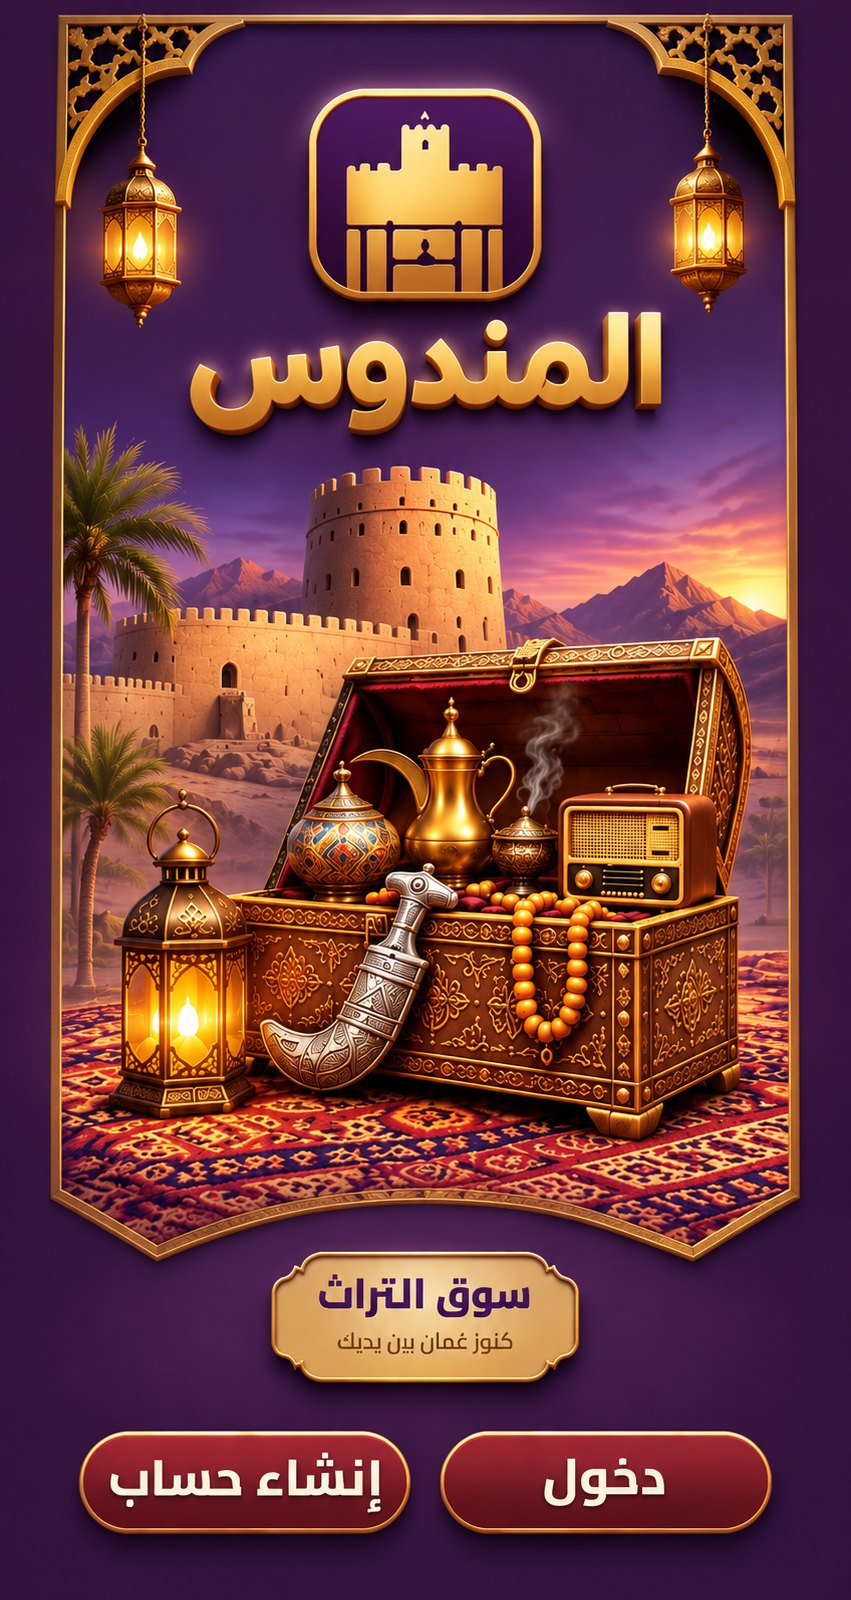
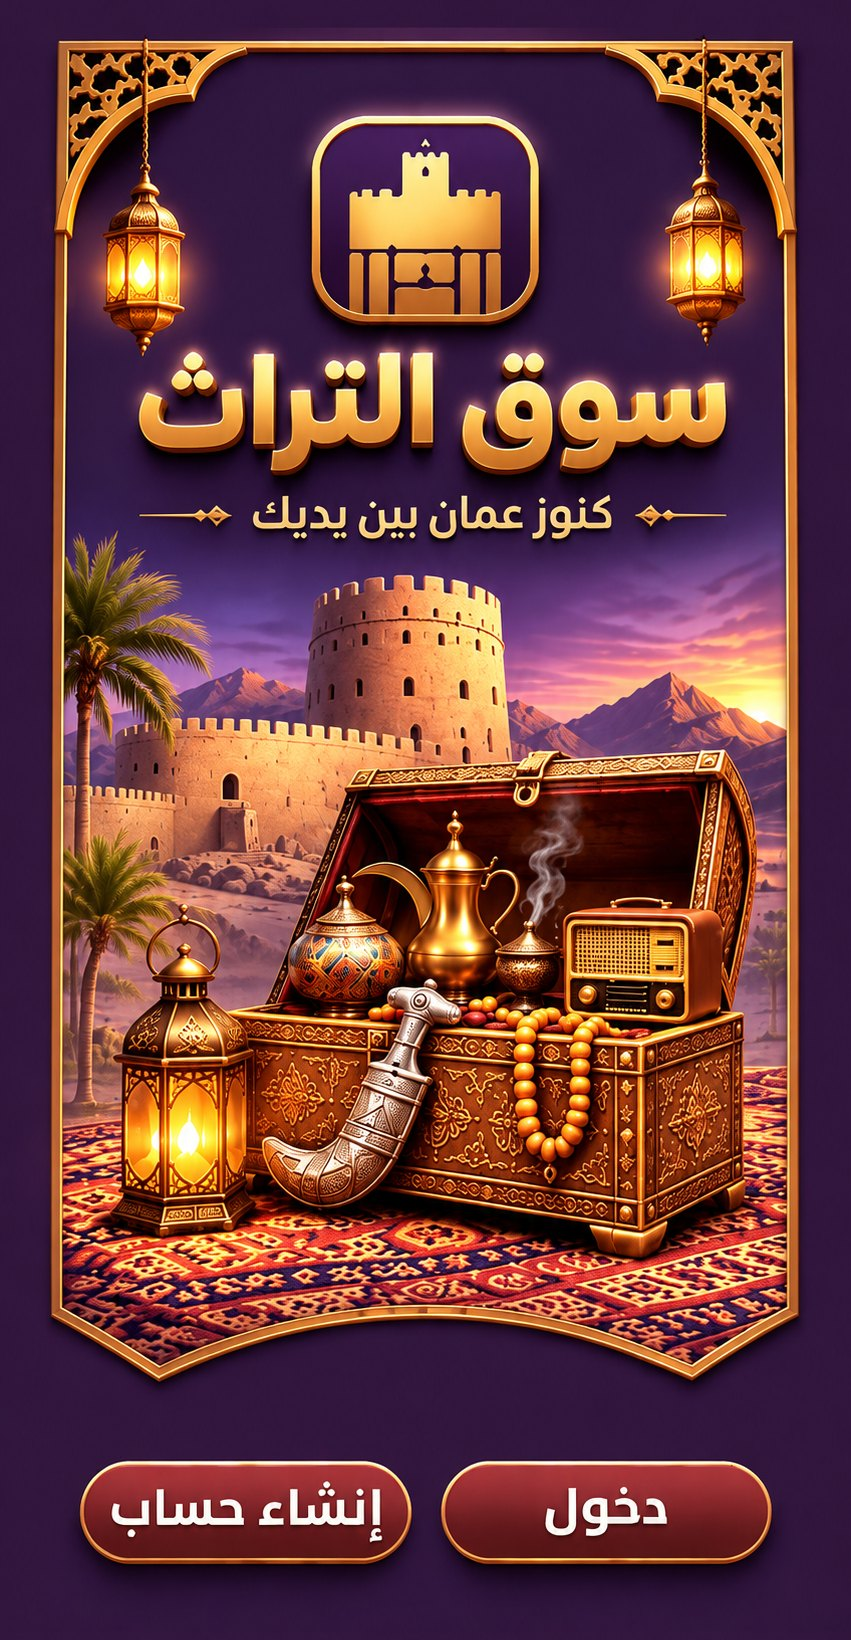
Gate: new سوق التراث artwork (title without المندوس)
Claude-Session: https://claude.ai/code/session_01BLY7rwJu2SGuWy1as6vWJj

diff --git a/index.html b/index.html
@@ -283,11 +283,11 @@ footer,footer a{color:#b49cc6!important}
 @font-face{font-family:"MandoosCairo";src:url(cairo-800.woff) format("woff");font-weight:800;font-display:swap}
 @font-face{font-family:"MandoosCairo";src:url(cairo-600.woff) format("woff");font-weight:600;font-display:swap}
 .gate{background:#37153f!important;display:flex;align-items:center;justify-content:center;overflow:hidden;gap:0;padding:env(safe-area-inset-top,0px) 0 env(safe-area-inset-bottom,0px)}
-.gate .gbox{position:relative;flex:none;width:min(100vw,calc((100dvh - env(safe-area-inset-top,0px) - env(safe-area-inset-bottom,0px)) * 851 / 1600));aspect-ratio:851/1600;container-type:inline-size;border-radius:0;overflow:hidden;box-shadow:none}
+.gate .gbox{position:relative;flex:none;width:min(100vw,calc((100dvh - env(safe-area-inset-top,0px) - env(safe-area-inset-bottom,0px)) * 851 / 1640));aspect-ratio:851/1640;container-type:inline-size;border-radius:0;overflow:hidden;box-shadow:none}
 .gate .gimg{position:absolute;inset:0;width:100%;height:100%;display:block;animation:gfade .9s ease-out both}
 .gate .gpanel{display:none!important;position:absolute;left:8%;right:8%;top:74.35%;height:14.7%;display:flex;flex-direction:column;align-items:center;justify-content:center;gap:1.2cqw;animation:gup .8s .35s ease-out both}
 .gate .gpanel h1{margin:0;font:800 13.5cqw/1.15 'MandoosCairo',var(--display);background:linear-gradient(180deg,#6d2a88,#3b1052);-webkit-background-clip:text;background-clip:text;color:transparent;text-shadow:none;filter:drop-shadow(0 1px 0 rgba(255,236,190,.8))}
-.gate .gb{position:absolute;top:89.5%;height:6.2%;padding-top:0!important;width:38.8%;color:transparent!important;text-shadow:none!important;background:transparent!important;white-space:nowrap;grid-template-columns:1fr;gap:0;text-align:center;border:0;border-radius:999px;background:none;color:#fff3d6;font:800 6.6cqw/1 'MandoosCairo',var(--display);display:grid;place-items:center;padding:0;text-shadow:0 2px 6px rgba(0,0,0,.45);animation:gup .8s .5s ease-out both}
+.gate .gb{position:absolute;top:89.1%;height:6.4%;padding-top:0!important;width:38.8%;color:transparent!important;text-shadow:none!important;background:transparent!important;white-space:nowrap;grid-template-columns:1fr;gap:0;text-align:center;border:0;border-radius:999px;background:none;color:#fff3d6;font:800 6.6cqw/1 'MandoosCairo',var(--display);display:grid;place-items:center;padding:0;text-shadow:0 2px 6px rgba(0,0,0,.45);animation:gup .8s .5s ease-out both}
 .gate .gb:active{background:rgba(255,255,255,.14)!important}
 .gate .gin{left:51.9%}
 .gate .gnew{left:9.4%}
